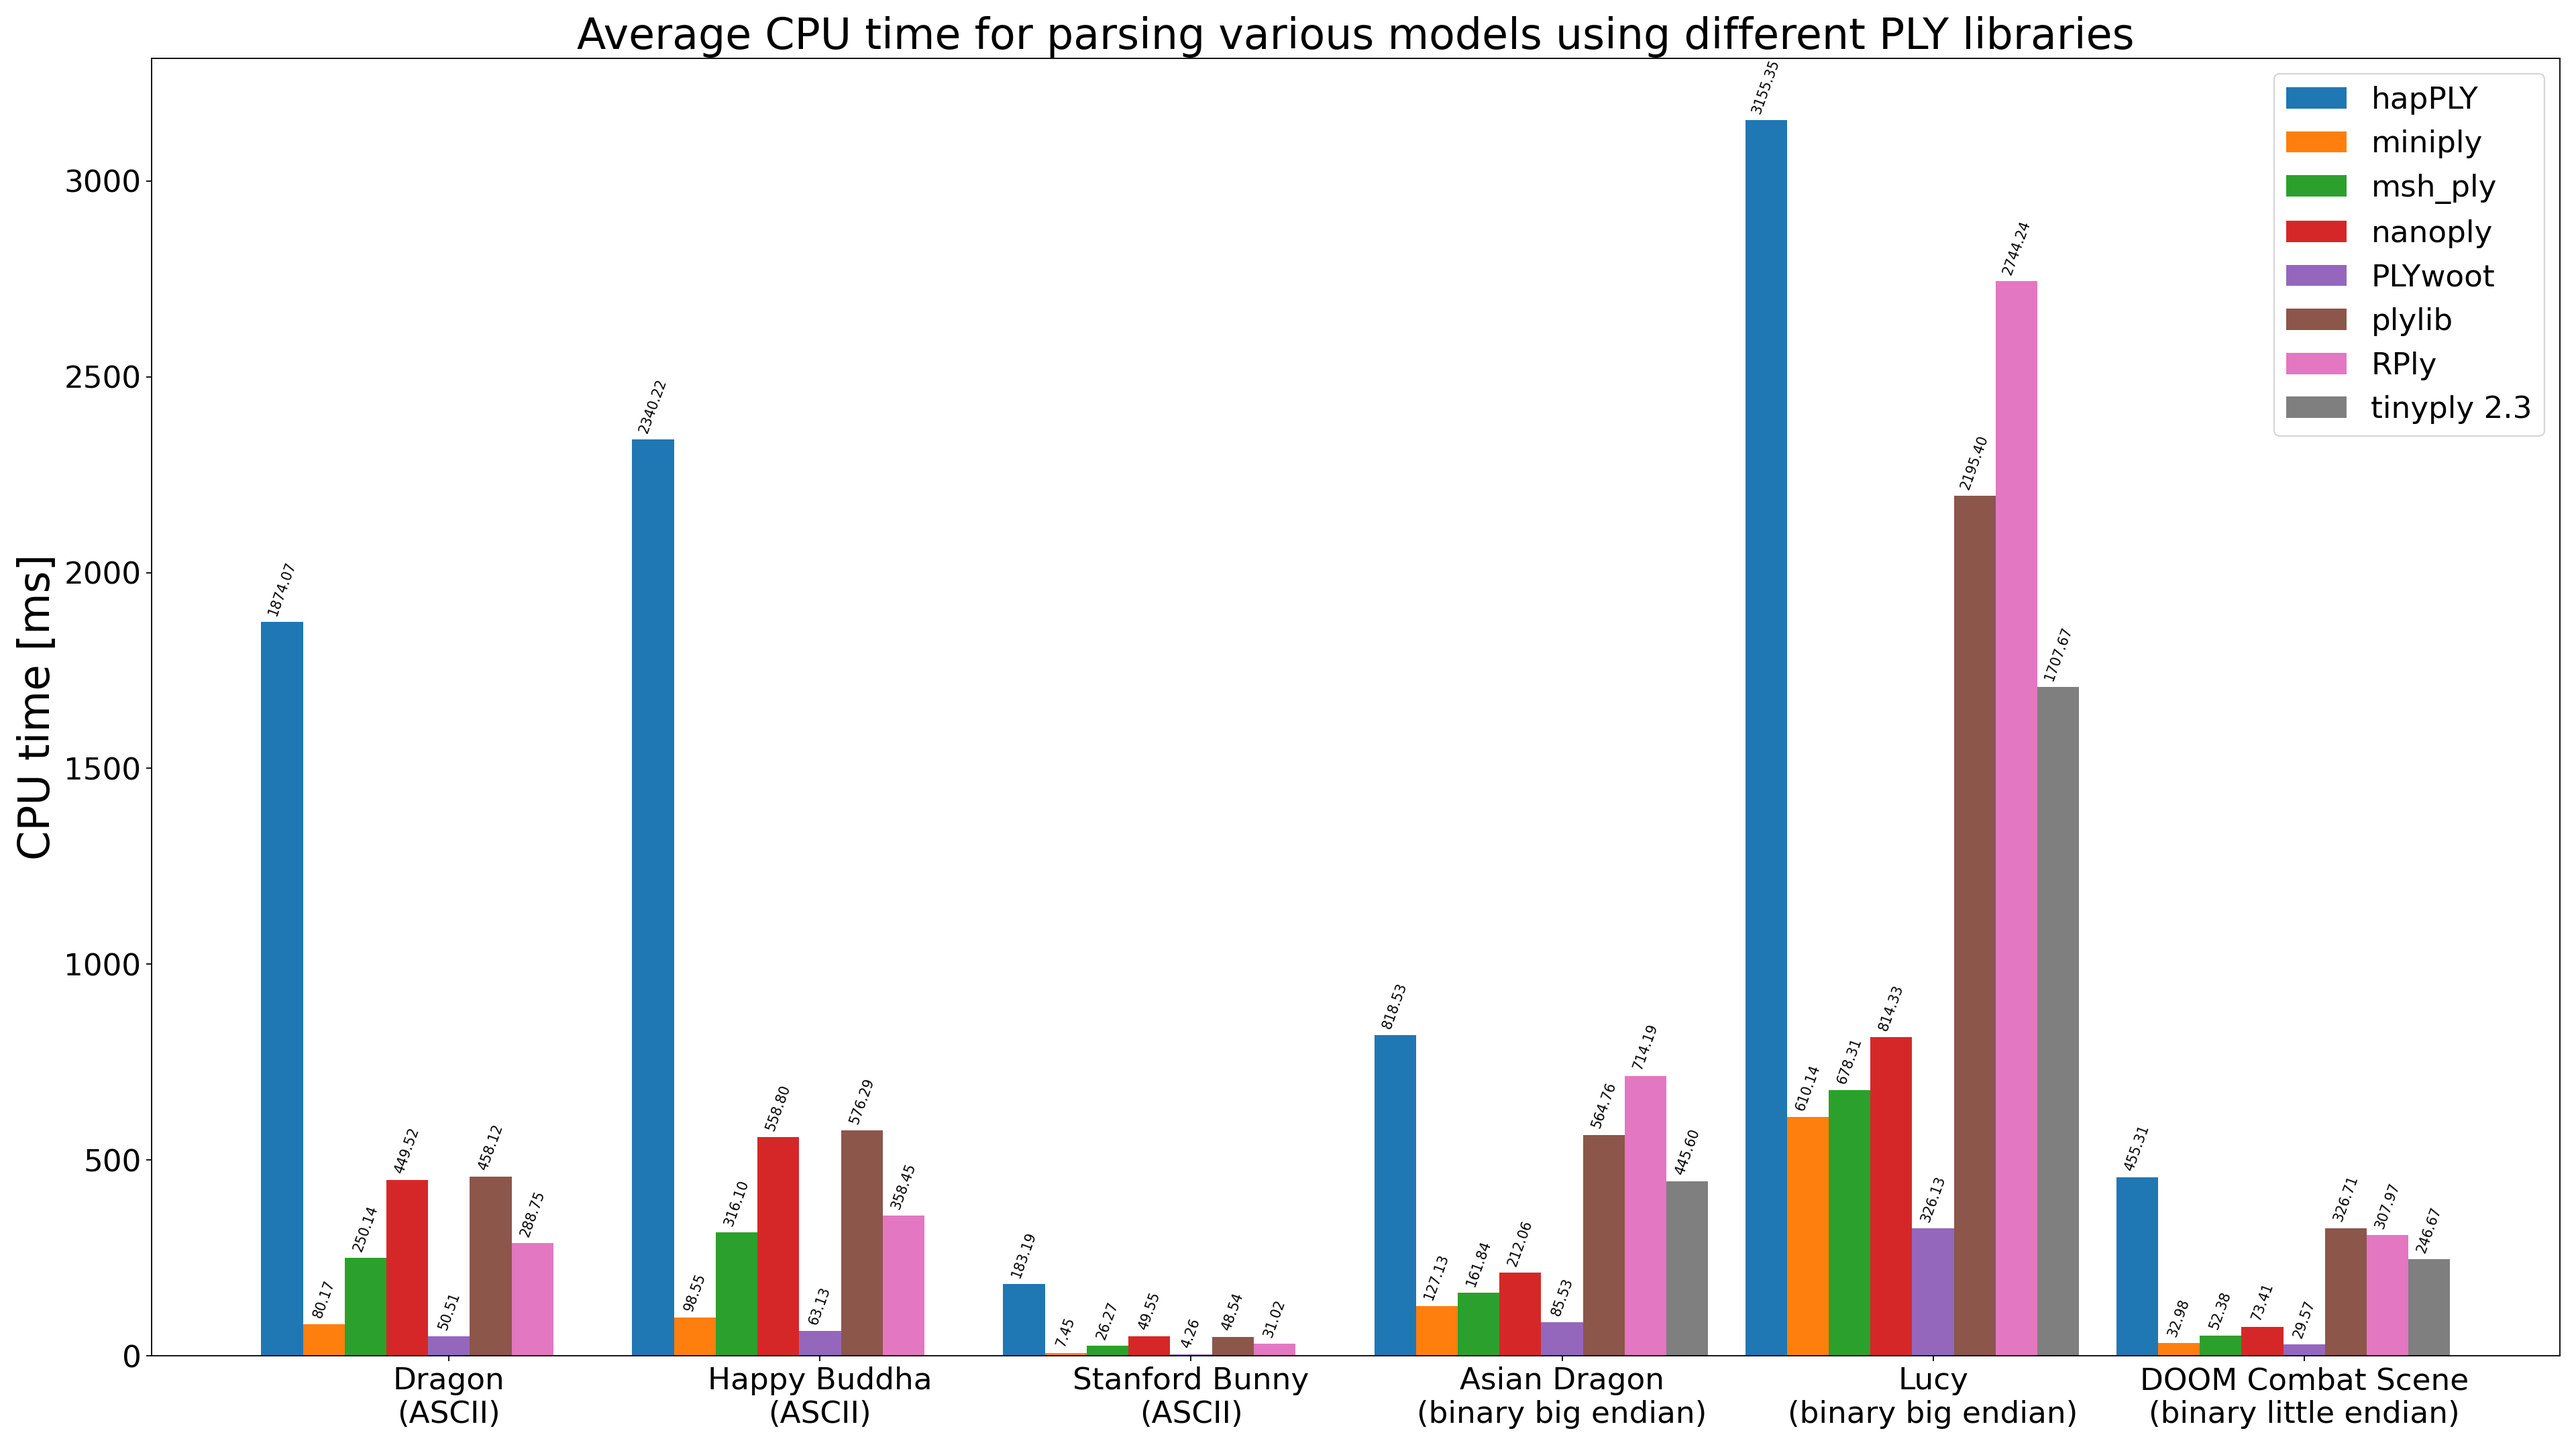
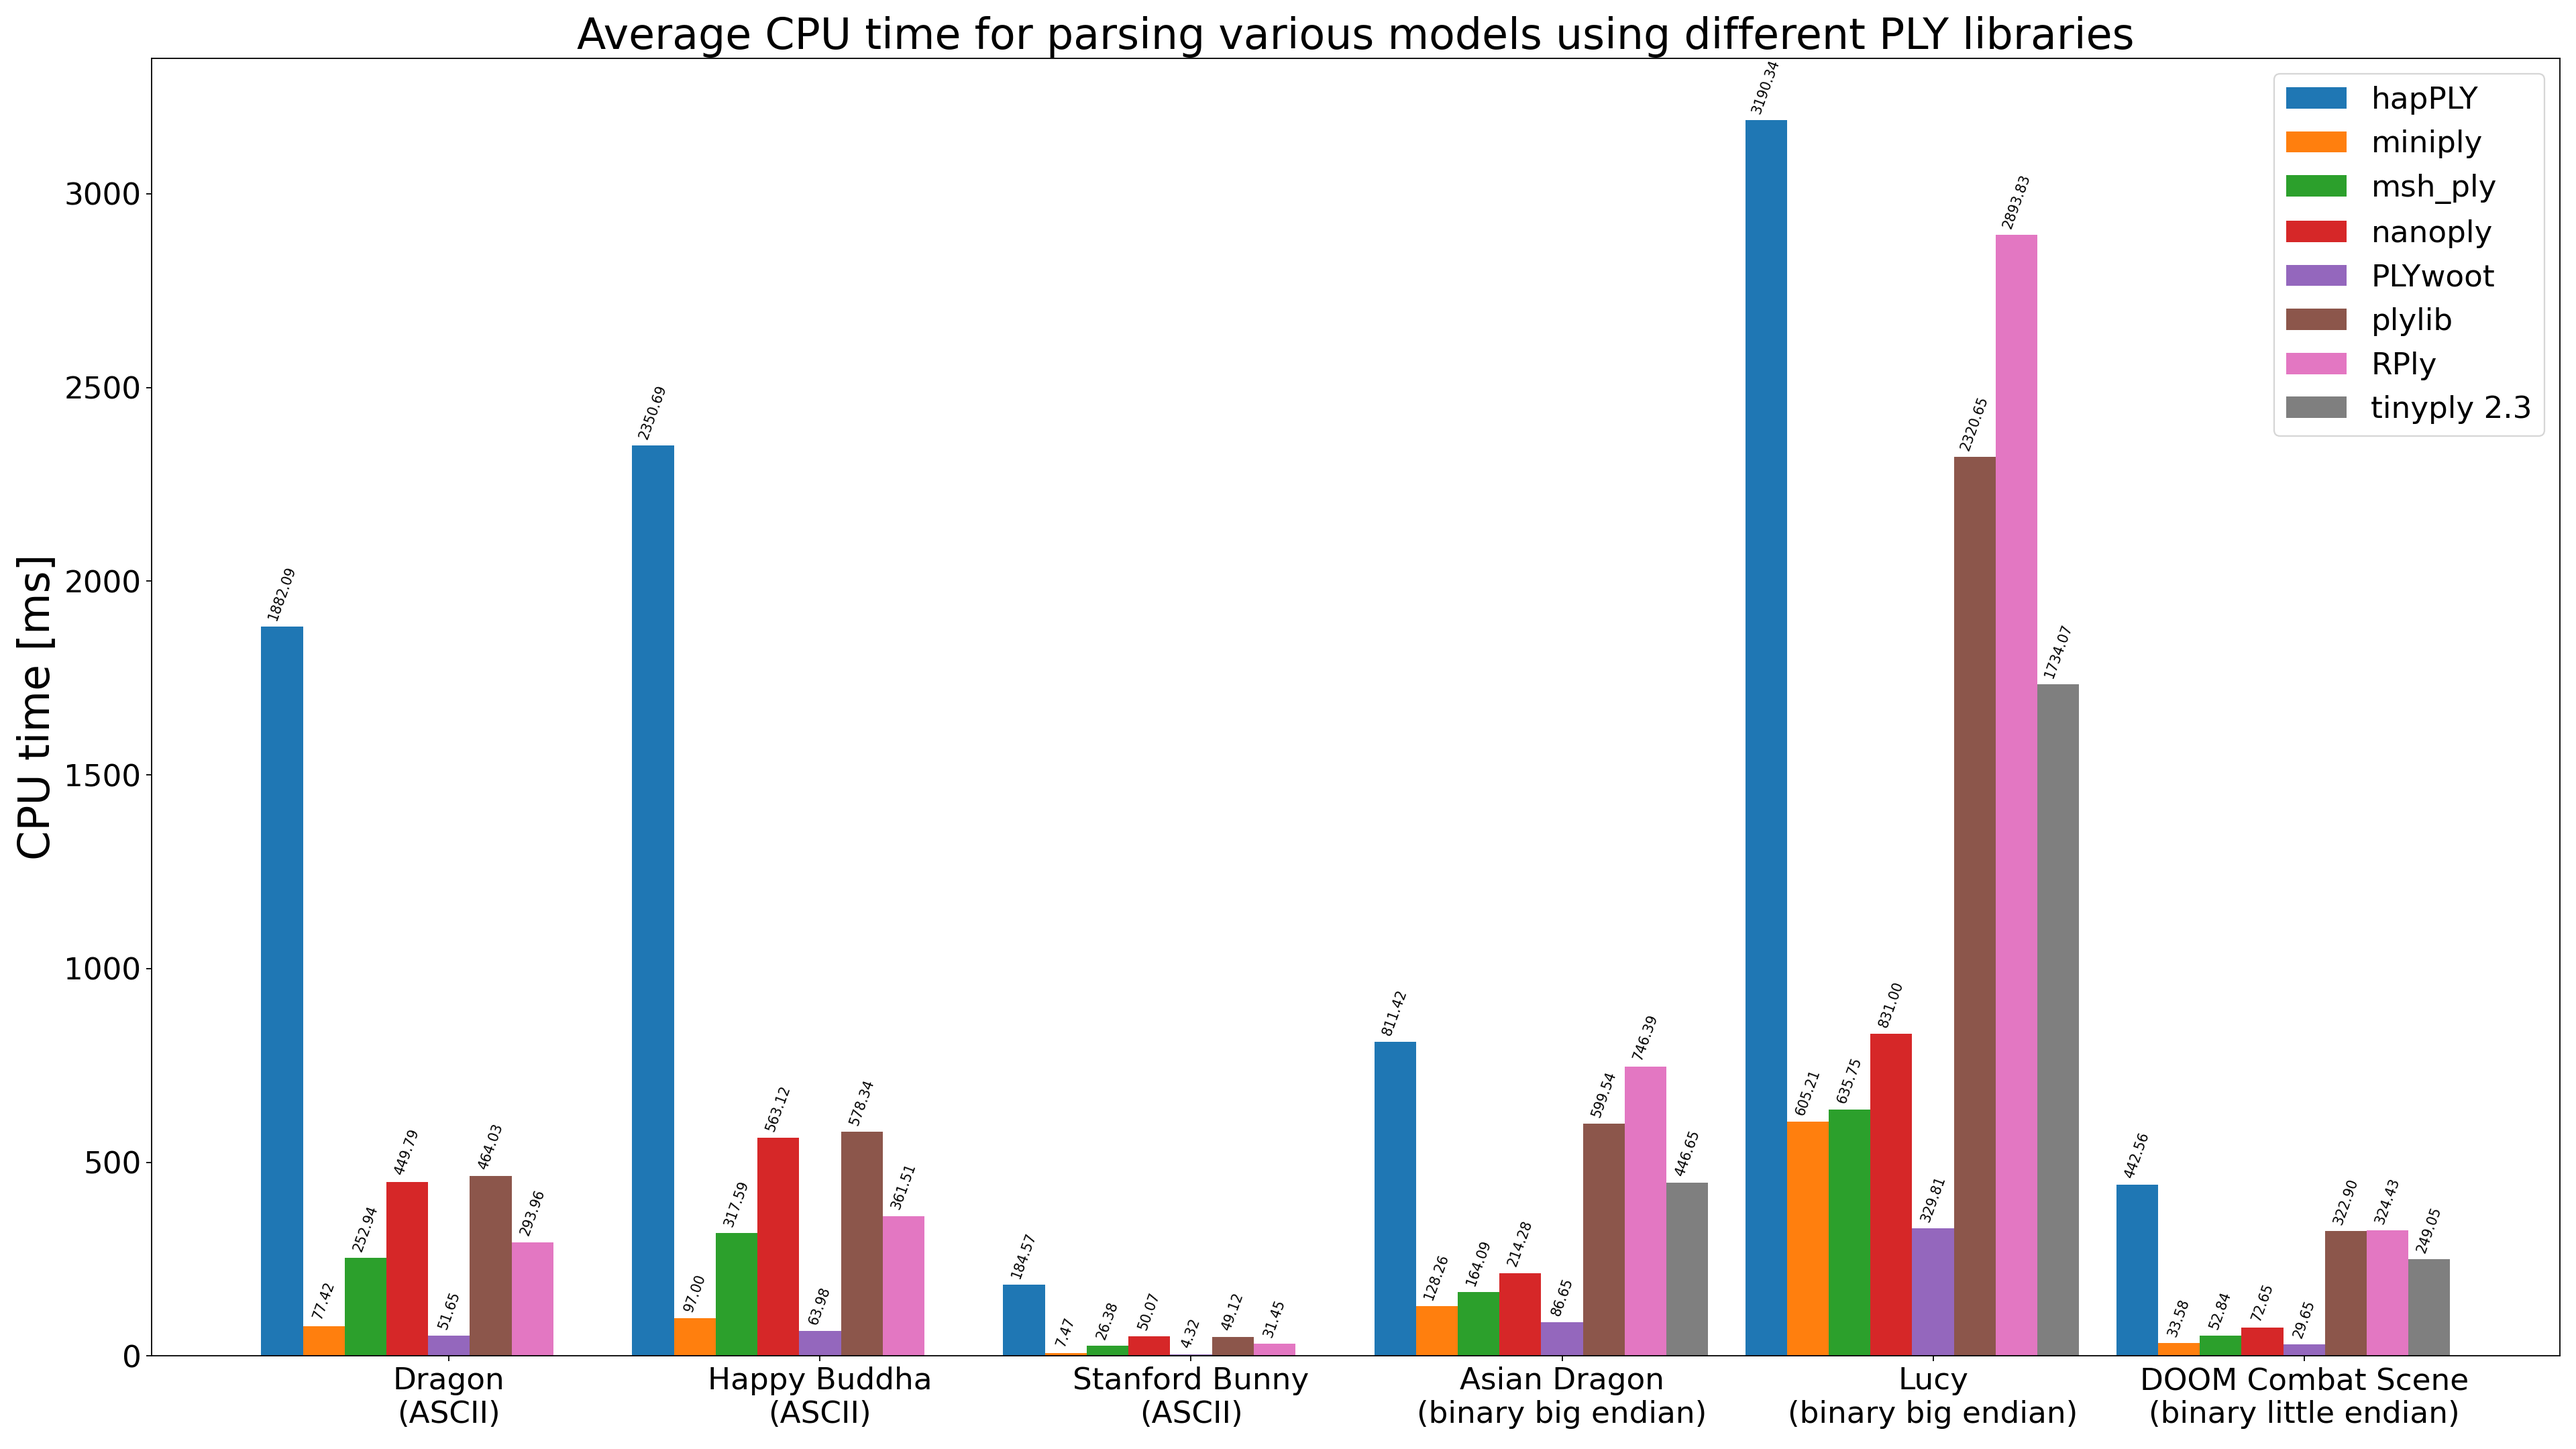
update_results.sh: fix generating graph

diff --git a/README.md b/README.md
@@ -47,13 +47,13 @@ The following lists the average relative read performance of each PLY library av
 | # | Library name                                                               | Overall        | ASCII          | Binary big endian | Binary little endian |
 |:-:|:--------------------------------------------------------------------------:|:--------------:|:--------------:|:-----------------:|:--------------------:|
 | 1 | [PLYwoot](https://github.com/ton/plywoot)                                  | *1.00*         | *1.00*         | *1.00*            | *1.00*               |
-| 2 | [miniply](https://github.com/vilya/miniply)                                | 1.68x slower   | 1.75x slower   | 1.87x slower      | 1.12x slower         |
-| 3 | [msh_ply](https://github.com/mhalber/msh)                                  | 3.94x slower   | 6.17x slower   | 2.08x slower      | 1.77x slower         |
-| 4 | [tinyply 2.3](https://github.com/ddiakopoulos/tinyply)                     | 6.27x slower   | N/A            | 5.24x slower      | 8.34x slower         |
-| 5 | [nanoply](https://github.com/cnr-isti-vclab/vcglib/tree/main/wrap/nanoply) | 6.76x slower   | 11.64x slower  | 2.50x slower      | 2.48x slower         |
-| 6 | [RPly](https://w3.impa.br/~diego/software/rply)                            | 8.25x slower   | 7.29x slower   | 8.41x slower      | 10.42x slower        |
-| 7 | [plylib](https://github.com/cnr-isti-vclab/vcglib/tree/main/wrap/ply)      | 9.68x slower   | 11.41x slower  | 6.73x slower      | 11.05x slower        |
-| 8 | [hapPLY](https://github.com/nmwsharp/happly)                               | 26.27x slower  | 43.05x slower  | 9.68x slower      | 15.40x slower        |
+| 2 | [miniply](https://github.com/vilya/miniply)                                | 1.66x slower   | 1.73x slower   | 1.84x slower      | 1.13x slower         |
+| 3 | [msh_ply](https://github.com/mhalber/msh)                                  | 3.85x slower   | 6.10x slower   | 1.93x slower      | 1.78x slower         |
+| 4 | [tinyply 2.3](https://github.com/ddiakopoulos/tinyply)                     | 6.30x slower   | N/A            | 5.26x slower      | 8.40x slower         |
+| 5 | [nanoply](https://github.com/cnr-isti-vclab/vcglib/tree/main/wrap/nanoply) | 6.74x slower   | 11.58x slower  | 2.52x slower      | 2.45x slower         |
+| 6 | [RPly](https://w3.impa.br/~diego/software/rply)                            | 8.46x slower   | 7.27x slower   | 8.77x slower      | 10.94x slower        |
+| 7 | [plylib](https://github.com/cnr-isti-vclab/vcglib/tree/main/wrap/ply)      | 9.74x slower   | 11.36x slower  | 7.04x slower      | 10.89x slower        |
+| 8 | [hapPLY](https://github.com/nmwsharp/happly)                               | 26.02x slower  | 42.69x slower  | 9.67x slower      | 14.92x slower        |
 
 
 The following graph plots average CPU time per model per PLY library (lower numbers are better):
@@ -70,12 +70,12 @@ The following lists the average relative write performance of each PLY library a
 
 | # | Library name                                                               | Overall        | ASCII          | Binary         |
 |:-:|:--------------------------------------------------------------------------:|:--------------:|:--------------:|:--------------:|
-| 1 | [msh_ply](https://github.com/mhalber/msh)                                  | *1.00*         | 1.12x slower   | *1.00*         |
-| 2 | [PLYwoot](https://github.com/ton/plywoot)                                  | 1.30x slower   | *1.00*         | 1.76x slower   |
-| 3 | [nanoply](https://github.com/cnr-isti-vclab/vcglib/tree/main/wrap/nanoply) | 1.68x slower   | 1.56x slower   | 2.00x slower   |
-| 4 | [RPly](https://w3.impa.br/~diego/software/rply)                            | 2.24x slower   | 1.02x slower   | 3.74x slower   |
-| 5 | [tinyply 2.3](https://github.com/ddiakopoulos/tinyply)                     | 2.38x slower   | 1.34x slower   | 3.71x slower   |
-| 6 | [hapPLY](https://github.com/nmwsharp/happly)                               | 4.07x slower   | 1.39x slower   | 7.23x slower   |
+| 1 | [msh_ply](https://github.com/mhalber/msh)                                  | *1.00*         | 1.14x slower   | *1.00*         |
+| 2 | [PLYwoot](https://github.com/ton/plywoot)                                  | 1.31x slower   | *1.00*         | 1.80x slower   |
+| 3 | [nanoply](https://github.com/cnr-isti-vclab/vcglib/tree/main/wrap/nanoply) | 1.67x slower   | 1.56x slower   | 2.01x slower   |
+| 4 | [RPly](https://w3.impa.br/~diego/software/rply)                            | 2.27x slower   | 1.02x slower   | 3.84x slower   |
+| 5 | [tinyply 2.3](https://github.com/ddiakopoulos/tinyply)                     | 2.37x slower   | 1.34x slower   | 3.72x slower   |
+| 6 | [hapPLY](https://github.com/nmwsharp/happly)                               | 4.14x slower   | 1.39x slower   | 7.47x slower   |
 
 
 The following graph plots average CPU time for writing a fixed triangle mesh with 100k semi-random triangles per PLY library (lower numbers are better):
